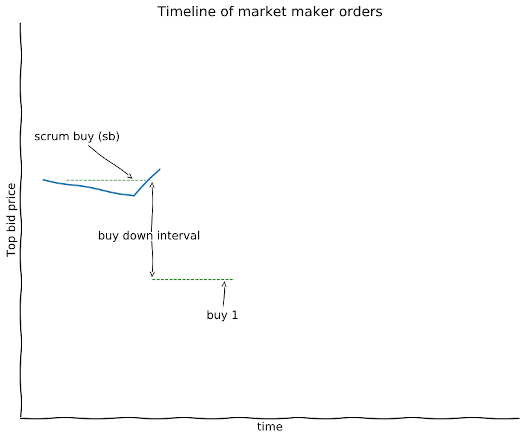
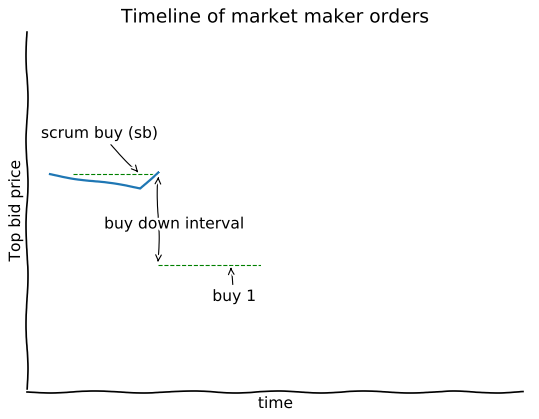
better resolution figures

Changed region(s): [[0.0, 0.0621, 0.9962, 0.9928], [0.2113, 0.0, 0.8151, 0.0621]]

diff --git a/makerbot/core.py b/makerbot/core.py
@@ -25,7 +25,7 @@ from nash import NashApi, CurrencyAmount
 from decimal import Decimal, getcontext
 from .helpers import Order, OrderBookSeries, retry, get_config
 
-VERSION = "0.1.3"
+__version__ = "0.1.3"
 # The maximum precision for amount and prices in Nash is 8, so we set that
 getcontext().prec = 8
 getcontext().rounding = "ROUND_FLOOR"
@@ -211,8 +211,8 @@ type_map = {'env': str,
             'log_level': log_map}
 
 def main():
-    arguments = docopt(__doc__, version=VERSION)
-    print("Nash market maker bot, version {}\n".format(VERSION))
+    arguments = docopt(__doc__, version=__version__)
+    print("Nash market maker bot, version {}\n".format(__version__))
     login = input('Nash login email: ')
     pwd = getpass('Nash login password: ')
     twofa = getpass('2FA if enabled: ')

diff --git a/docs/graphs.py b/docs/graphs.py
@@ -3,7 +3,7 @@ from collections import namedtuple
 
 plt.xkcd()
 
-fig = plt.figure(figsize=(9, 7), dpi=80)
+fig = plt.figure(figsize=(8, 6), dpi=80)
 ax = fig.add_subplot(1, 1, 1)
 ax.spines['right'].set_color('none')
 ax.spines['top'].set_color('none')
@@ -43,7 +43,7 @@ plt.annotate(
     '',
     xy=(3.8, scrum_buy.y - buy_dow_interval + straddle), arrowprops=dict(arrowstyle='<->'), xytext=(3.8, scrum_buy.y - buy_dow_interval))
 plt.text(3.55, 8.5, 'straddle')
-#
+
 plt.hlines(y=scrum_buy.y - buy_dow_interval, xmin=2.2, xmax=4.25, color='g', linestyles='--', lw=1)
 
 plt.annotate(

diff --git a/setup.py b/setup.py
@@ -1,6 +1,8 @@
 #!/usr/bin/env python3
 
+from makerbot import __version__
 from setuptools import setup, find_packages
+
 try:  # pip version >= 10.0
     from pip._internal.req import parse_requirements
     from pip._internal.download import PipSession
@@ -20,7 +22,7 @@ reqs = [str(ir.req) for ir in install_reqs]
 setup(
     name='nash-makerbot',
     python_requires='>=3.6',
-    version='0.1.3',
+    version=__version__,
     description="A crypto market maker bot that is easy understand and customize",
     long_description=readme + '\n\n' + history,
     author="Nash",

diff --git a/makerbot/__init__.py b/makerbot/__init__.py
@@ -3,7 +3,6 @@
 """Top-level package for makerbot."""
 
 __author__ = """Nash"""
-__version__ = '0.1.3'
 
-from .core import main
+from .core import main, __version__
 from .helpers import Order, OrderBookSeries, retry, get_config
